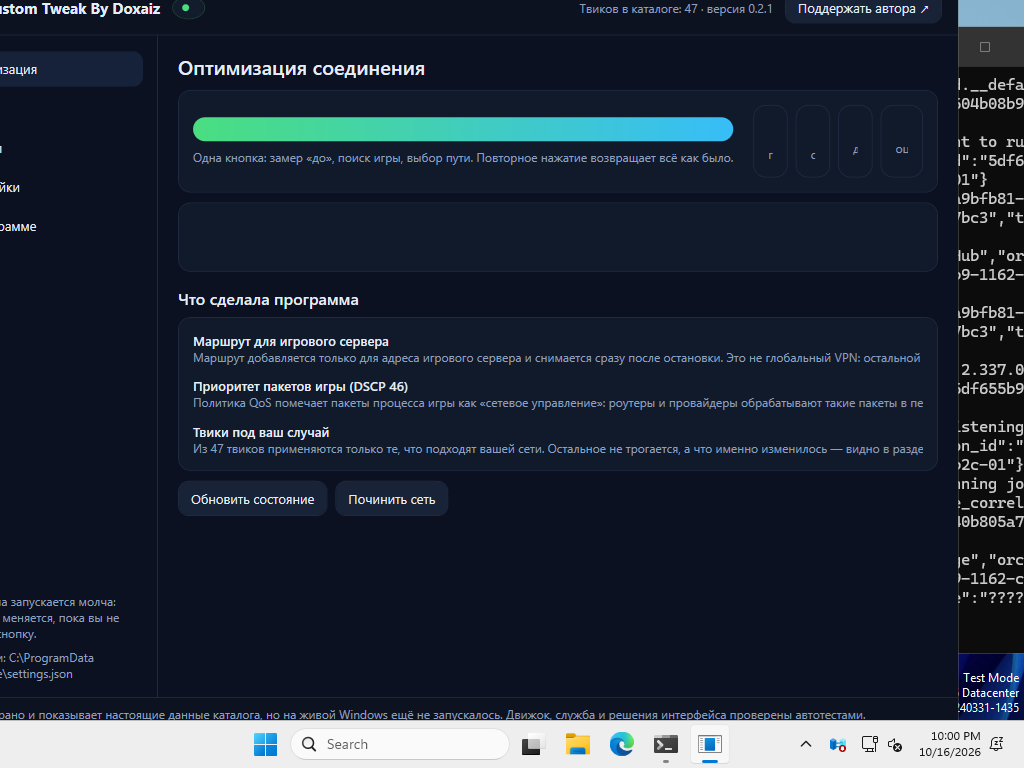
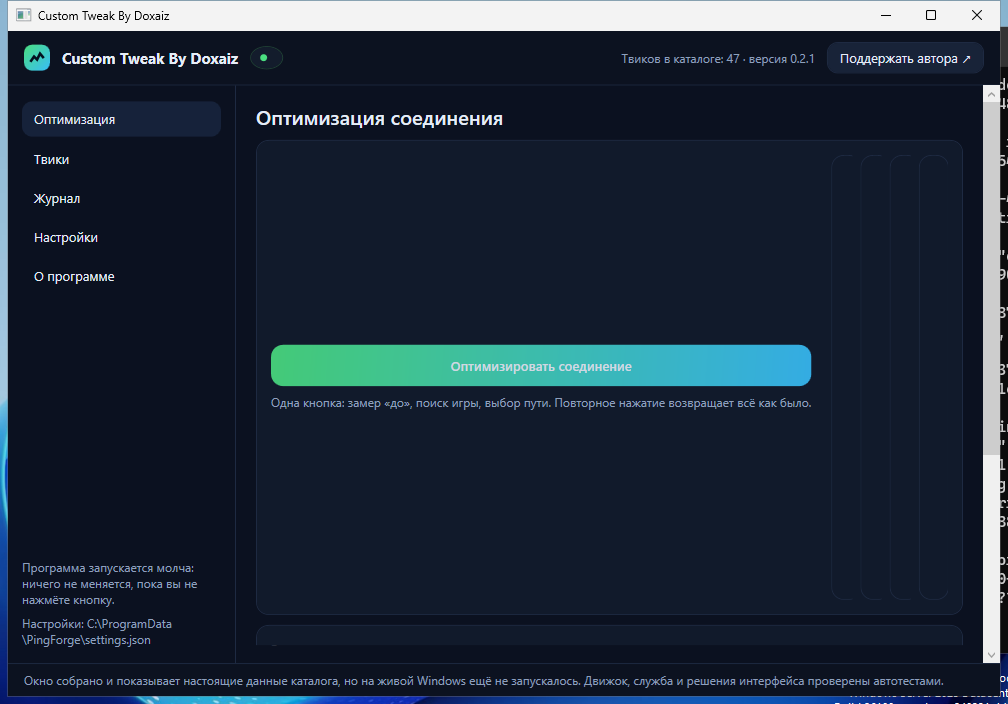
Окно: карточки показателей больше не сжимаются в полосы, подвал говорит правду
Снимок со сборочной Windows показал третью настоящую ошибку: четыре карточки
(«пинг сейчас», «стало лучше», «до оптимизации», «оценка качества») были сжаты в узкие
полосы у правого края и обрезаны — прочитать в них было нельзя ничего. Причина: колонка
с большой кнопкой была «по содержимому», и подпись под кнопкой растянула её, оставив
карточкам по тридцать точек.

Что сделано:
- колонка с кнопкой — 300 точек, подпись переносится по строкам;
- карточки показателей получили имена, MinWidth 110 и выравнивание по верху;
- самопроверка проверяет РАСКЛАДКУ, а не только наличие элементов: измеряет ширину каждой
  из четырёх карточек и отказывает, если её сжали;
- подвал окна больше не говорит «на живой Windows ещё не запускалось» — запускается,
  при каждой сборке, и это видно на снимке в артефактах.

diff --git a/src/PingForge.App/Views/OptimizeView.xaml b/src/PingForge.App/Views/OptimizeView.xaml
@@ -5,44 +5,47 @@
     <TextBlock Style="{StaticResource Title}" Text="Оптимизация соединения" />
 
     <Border Style="{StaticResource Card}">
-      <Grid>
+      <Grid VerticalAlignment="Top">
+        <!-- Ширина колонки с кнопкой задана числом, а не «по содержимому»: подпись под кнопкой
+             иначе растягивала колонку и сжимала карточки показателей до нечитаемых полос —
+             именно это и было видно на снимке окна со сборочной Windows. -->
         <Grid.ColumnDefinitions>
-          <ColumnDefinition Width="Auto" />
+          <ColumnDefinition Width="300" />
           <ColumnDefinition Width="*" />
         </Grid.ColumnDefinitions>
 
-        <StackPanel Grid.Column="0" VerticalAlignment="Center" Margin="0,0,20,0">
+        <StackPanel Grid.Column="0" VerticalAlignment="Top" Margin="0,0,20,0">
           <Button Style="{StaticResource PrimaryButton}"
                   Content="{Binding ButtonTextRu}"
                   Command="{Binding OptimizeCommand}"
-                  MinWidth="260" />
-          <TextBlock Style="{StaticResource Caption}" Margin="0,8,0,0"
+                  HorizontalAlignment="Stretch" />
+          <TextBlock Style="{StaticResource Caption}" Margin="0,8,0,0" TextWrapping="Wrap"
                      Text="Одна кнопка: замер «до», поиск игры, выбор пути. Повторное нажатие возвращает всё как было." />
         </StackPanel>
 
-        <UniformGrid Grid.Column="1" Columns="4" Rows="1">
-          <Border Style="{StaticResource Card}" Margin="0,0,8,0">
+        <UniformGrid Grid.Column="1" Columns="4" Rows="1" VerticalAlignment="Top">
+          <Border x:Name="StatPing" Style="{StaticResource Card}" Margin="0,0,8,0" MinWidth="110">
             <StackPanel>
               <TextBlock Text="{Binding CurrentRttMs, StringFormat={}{0:0.#} мс, TargetNullValue=не измерено}"
                          FontSize="20" FontWeight="SemiBold" Foreground="{StaticResource Accent}" />
               <TextBlock Style="{StaticResource Caption}" Text="пинг сейчас" />
             </StackPanel>
           </Border>
-          <Border Style="{StaticResource Card}" Margin="0,0,8,0">
+          <Border x:Name="StatBetter" Style="{StaticResource Card}" Margin="0,0,8,0" MinWidth="110">
             <StackPanel>
               <TextBlock Text="{Binding ImprovementMs, StringFormat=−{0:0.#} мс, TargetNullValue=—}"
                          FontSize="20" FontWeight="SemiBold" />
               <TextBlock Style="{StaticResource Caption}" Text="стало лучше" />
             </StackPanel>
           </Border>
-          <Border Style="{StaticResource Card}" Margin="0,0,8,0">
+          <Border x:Name="StatBefore" Style="{StaticResource Card}" Margin="0,0,8,0" MinWidth="110">
             <StackPanel>
               <TextBlock Text="{Binding BaselineRttMs, StringFormat=было {0:0.#} мс, TargetNullValue=было —}"
                          FontSize="15" FontWeight="SemiBold" />
               <TextBlock Style="{StaticResource Caption}" Text="до оптимизации" />
             </StackPanel>
           </Border>
-          <Border Style="{StaticResource Card}" Margin="0">
+          <Border x:Name="StatQuality" Style="{StaticResource Card}" Margin="0" MinWidth="110">
             <StackPanel>
               <TextBlock Text="{Binding QualityRu}" FontSize="15" FontWeight="SemiBold" />
               <TextBlock Style="{StaticResource Caption}" Text="оценка качества" />

diff --git a/src/PingForge.App/MainWindow.xaml b/src/PingForge.App/MainWindow.xaml
@@ -88,7 +88,7 @@
     <!-- Подвал: честная плашка про макет интерфейса. -->
     <Border Grid.Row="2" Background="#0C1220" BorderBrush="{StaticResource Line}" BorderThickness="0,1,0,0" Padding="16,8">
       <TextBlock Style="{StaticResource Caption}"
-                 Text="Окно собрано и показывает настоящие данные каталога, но на живой Windows ещё не запускалось. Движок, служба и решения интерфейса проверены автотестами." />
+                 Text="Программа запускается молча: ничего не меняется, пока вы не нажмёте кнопку. Окно, разделы, трей и связь со службой проверяются на живой Windows при каждой сборке." />
     </Border>
   </Grid>
 </Window>

diff --git a/src/PingForge.App/SelfCheck.cs b/src/PingForge.App/SelfCheck.cs
@@ -52,8 +52,19 @@ internal static class SelfCheck
         int windowCode = CheckWindow(app, problems);
 
         CheckBindings(app, problems);
+        CheckLayout(app, problems);
         CheckTray(app, problems);
         CheckService(problems);
+
+        // Если окно построилось, но раскладка или привязки плохи — это тот же отказ, что и «окно не собралось»:
+        // пользователь видит не работающую программу.
+        if (windowCode == Ok && problems.Any(problem => problem.Contains("сжаты", StringComparison.Ordinal)
+            || problem.Contains("нет карточки", StringComparison.Ordinal)
+            || problem.Contains("потеряла данные", StringComparison.Ordinal)
+            || problem.Contains("нет надписей", StringComparison.Ordinal)))
+        {
+            windowCode = WindowFailed;
+        }
 
         return Finish(problems, windowCode);
     }
@@ -236,6 +247,56 @@ internal static class SelfCheck
         {
             root.UpdateLayout();
         }
+    }
+
+    /// <summary>
+    /// Раскладка: карточки показателей не должны быть сжаты. Это тоже настоящий дефект со снимка
+    /// окна — цифры «пинг сейчас», «стало лучше», «до оптимизации» и «оценка качества» сжимались
+    /// в узкие полосы у правого края, потому что колонку с кнопкой растянула подпись под ней.
+    ///
+    /// Проверяется ширина, а не «есть элемент»: элемент был, а прочитать его было нельзя.
+    /// </summary>
+    private static void CheckLayout(App app, List<string> problems)
+    {
+        if (app.Shell?.Content is not FrameworkElement)
+        {
+            return;
+        }
+
+        object? page = app.Shell.SectionsForCheck.FirstOrDefault(section => section.GetType().Name == "OptimizeView");
+        if (page is not FrameworkElement view)
+        {
+            problems.Add("страница «Оптимизация» не найдена — проверять раскладку не на чем");
+            return;
+        }
+
+        const double MinCardWidth = 110;
+        string[] cards = ["StatPing", "StatBetter", "StatBefore", "StatQuality"];
+        var squeezed = new List<string>();
+
+        foreach (string name in cards)
+        {
+            if (view.FindName(name) is not FrameworkElement card)
+            {
+                problems.Add($"в окне нет карточки показателя «{name}»");
+                continue;
+            }
+
+            System.Diagnostics.Debug.WriteLine($"{name}: {card.ActualWidth}×{card.ActualHeight}");
+            if (card.ActualWidth + 0.5 < MinCardWidth)
+            {
+                squeezed.Add($"{name} — {Math.Round(card.ActualWidth)} точек");
+            }
+        }
+
+        if (squeezed.Count > 0)
+        {
+            problems.Add($"карточки показателей сжаты: {string.Join("; ", squeezed)}");
+            StartupLog.Warn($"Раскладка: карточки показателей сжаты — {string.Join("; ", squeezed)}");
+            return;
+        }
+
+        StartupLog.Note($"Раскладка: карточки показателей не сжаты (проверено {cards.Length} штук)");
     }
 
     private static void CollectButtonTexts(DependencyObject node, List<string> texts)
